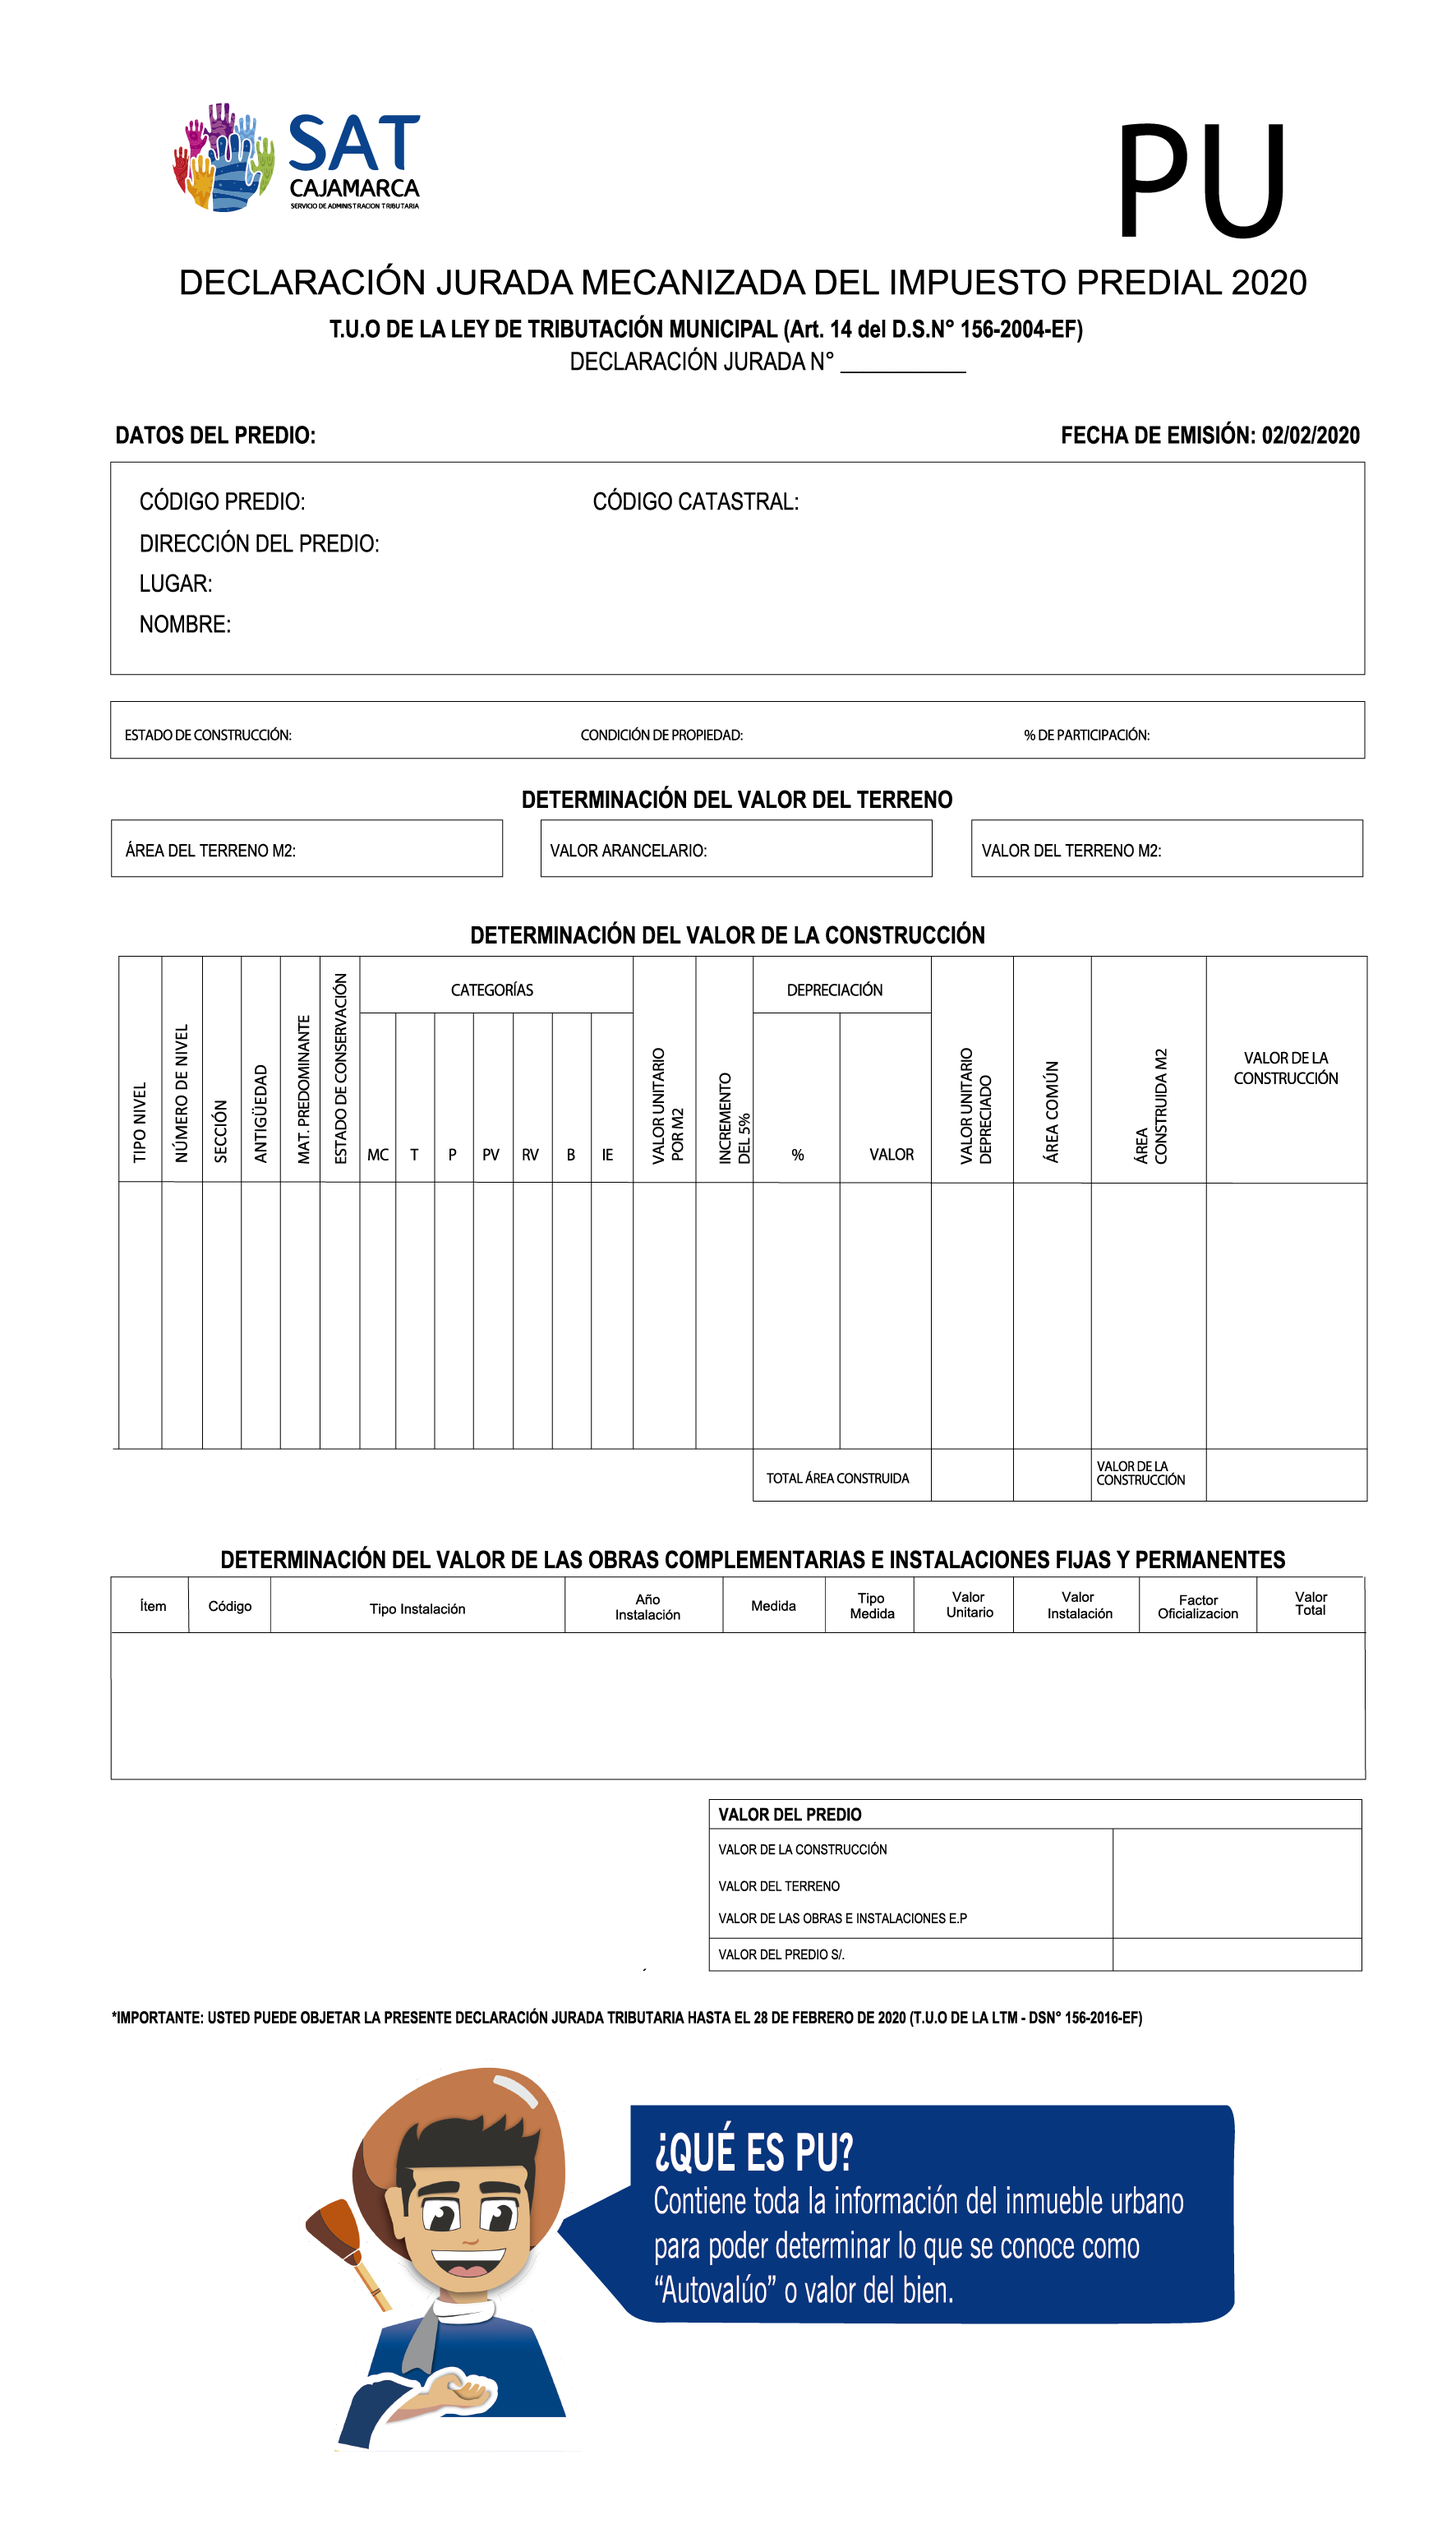
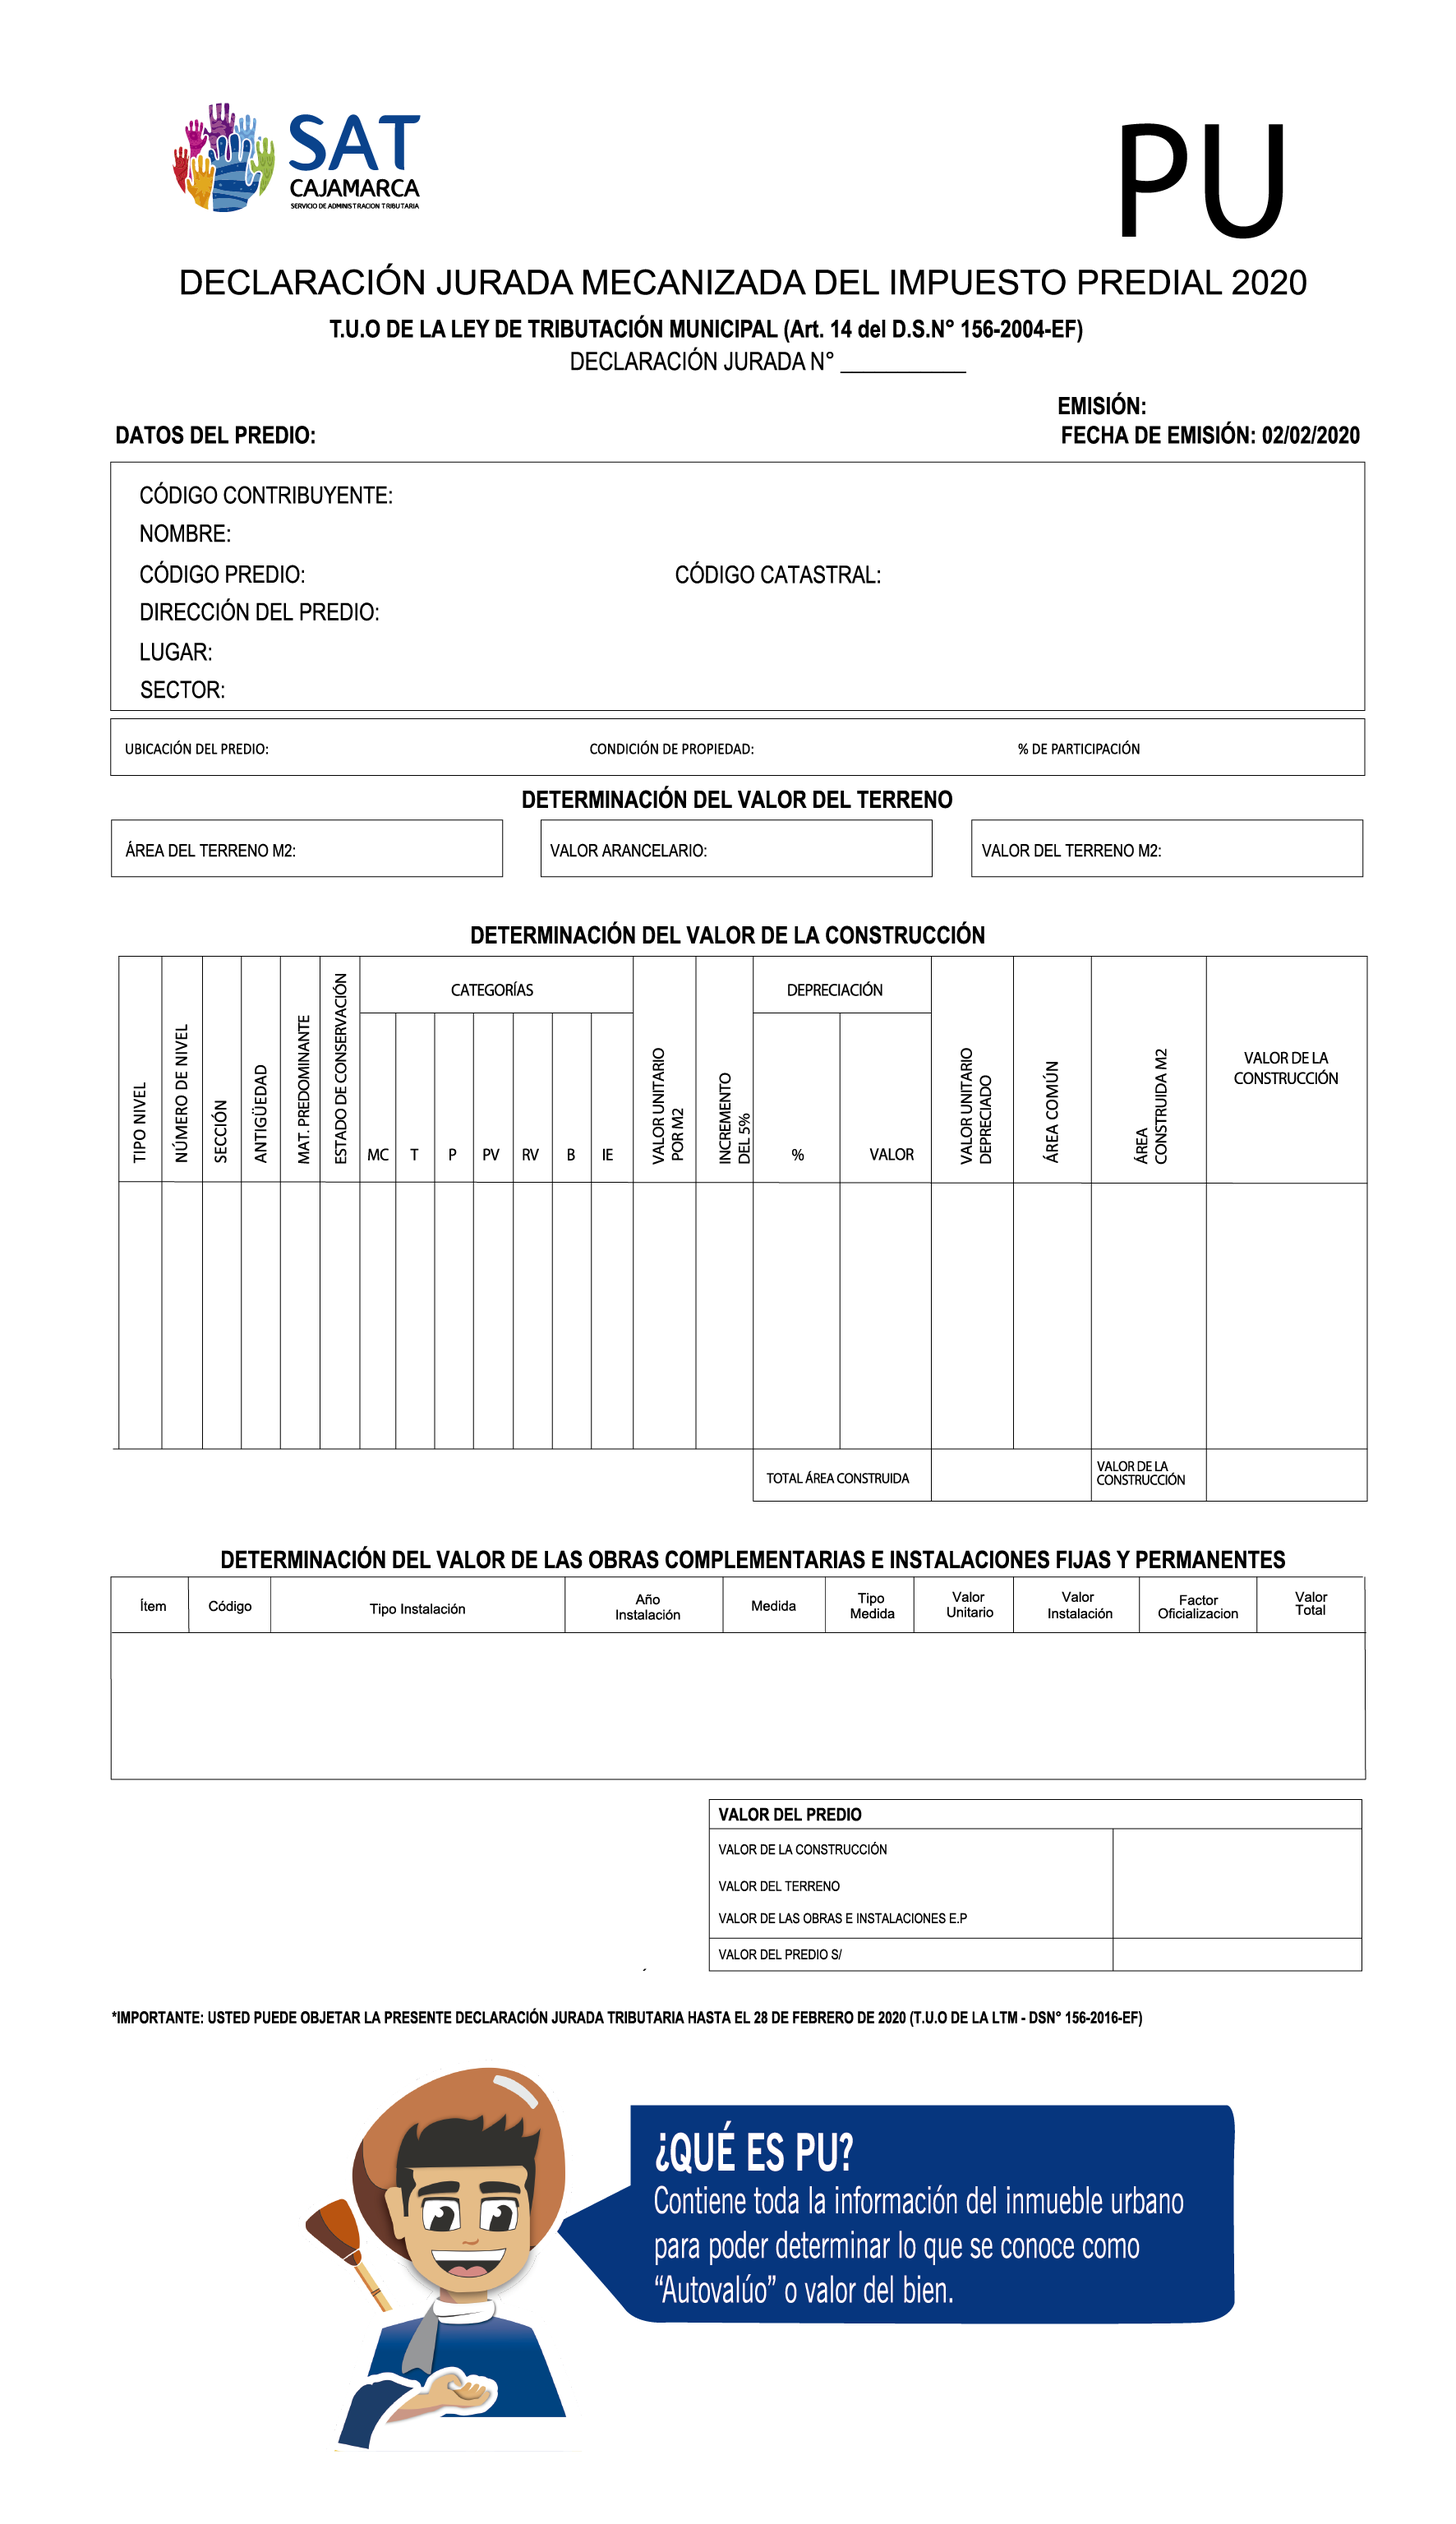
maqueta pu

diff --git a/css/estilos.css b/css/estilos.css
@@ -332,6 +332,84 @@
   font-size: 10px;
 }
 
+.center{
+  text-align:center;
+}
+.tabla_pu p{
+ margin-bottom: 2px;
+ 
+}
+.tabla_pu {
+  margin-bottom: 2px;
+  max-width: 665px;
+  overflow: hidden;
+  margin: auto; 
+  font-size:10px;
+  font-weight: bold;
+ }
+
+.emular{
+  visibility: hidden;
+ }
+
+ .dato{
+  visibility: visible;
+  }
+
+.dato_predio_pu{
+    margin-left: 50px;
+  }
+
+  table td, .table th {
+
+    padding: 9px !important;
+  }
+
+  .emision_pu{
+    position: relative;
+    bottom: 15px;
+    left: 29px;
+  }
+
+  .codigo_contribuyente_pu{
+    position: relative;
+    bottom: 10px;
+    left: 41px;
+  }
+
+  .nombre_pu{
+  position: relative;
+  bottom: 9px;
+  left: 48px;
+  }
+  .codigo_predio_pu{
+    position: relative;
+    bottom: 7px;
+    left: 44px;
+  }
+
+  .direccion_predio_pu{
+  position: relative;
+  bottom: 7px;
+  left: 37px;
+  }
+
+  .lugar_pu{
+    position: relative;
+    bottom: 7px;
+left: 49px;
+  }
+
+  .sector_pu{
+    position: relative;
+    bottom: 6px;
+left: 51px;
+  }
+
+  
+
+
+
 @media print {
   .no_imprimir {
     display: none !important; } }

diff --git a/consultas/pu/vista-pu.php b/consultas/pu/vista-pu.php
@@ -47,6 +47,50 @@
             </div>
         </div>
     </div>
+
+
+    <!-- TABLA -->
+
+    <table class="table table-bordered tabla_pu" style="background-image:  url('../../img/pu.png');
+    background-size: cover;
+background-repeat: no-repeat;
+    " >
+	<tbody>
+		<tr style="height: 113px;">
+			<td>  <p class="emular">LOGO SAT </p></td>
+			<td>  <p class="emular"> PU </p></td>
+			
+		</tr>
+		<tr>
+            <td class="center" colspan="2"> <p class="emular"> DECLARACION JUARADA MECANIZADA DEL IMPUESTO PREDIAL </p>
+            <p class="emular"> XXXXXXXXXXXXXXXXXXXXXXXXXXXXXX </p>
+            <p class="emular">DECLARACION JUARADA N <span class="dato">54554</span>  </p>
+            </td>
+			
+		</tr >
+		<tr>
+			<td><p class="emular dato_predio_pu">Datos del predio: <span class="dato">XXXXX </span></p></td>
+			<td><p class="emular"> emision: <span class="dato emision_pu">445333  </span></p></td>
+		
+		</tr>
+		<tr>
+			<td colspan="2">
+                 <p class="emular"> CODIGO CONTRIBUYENTE:<span class="dato codigo_contribuyente_pu">31684</span></p>
+                 <p class="emular"> NOMBRE: <span class="dato nombre_pu">EL WAYNER</span></p>
+                 <p class="emular"> CODIGO PREDIO: <span class="dato codigo_predio_pu">23344</span></p>
+                 <p class="emular"> DIRECCION DEL PREDIOO:<span class="dato direccion_predio_pu">AV Arequipa centro comercial la casnona 134</span></p>
+                 <p class="emular"> LUGAR: <span class="dato lugar_pu">xxxx</span></p>
+                 <p class="emular"> SECTOR: <span class="dato sector_pu">AS</span></p>
+                
+            </td>
+			
+			
+        </tr>
+        
+      
+	
+	</tbody>
+</table>
 <!-- JavaScript -->
 <script src="https://code.jquery.com/jquery-3.4.1.min.js" integrity="sha256-CSXorXvZcTkaix6Yvo6HppcZGetbYMGWSFlBw8HfCJo=" crossorigin="anonymous"></script>    <script src="https://cdn.jsdelivr.net/npm/popper.js@1.16.0/dist/umd/popper.min.js" integrity="sha384-Q6E9RHvbIyZFJoft+2mJbHaEWldlvI9IOYy5n3zV9zzTtmI3UksdQRVvoxMfooAo" crossorigin="anonymous"></script>
     <script src="https://stackpath.bootstrapcdn.com/bootstrap/4.4.1/js/bootstrap.min.js" integrity="sha384-wfSDF2E50Y2D1uUdj0O3uMBJnjuUD4Ih7YwaYd1iqfktj0Uod8GCExl3Og8ifwB6" crossorigin="anonymous"></script>
